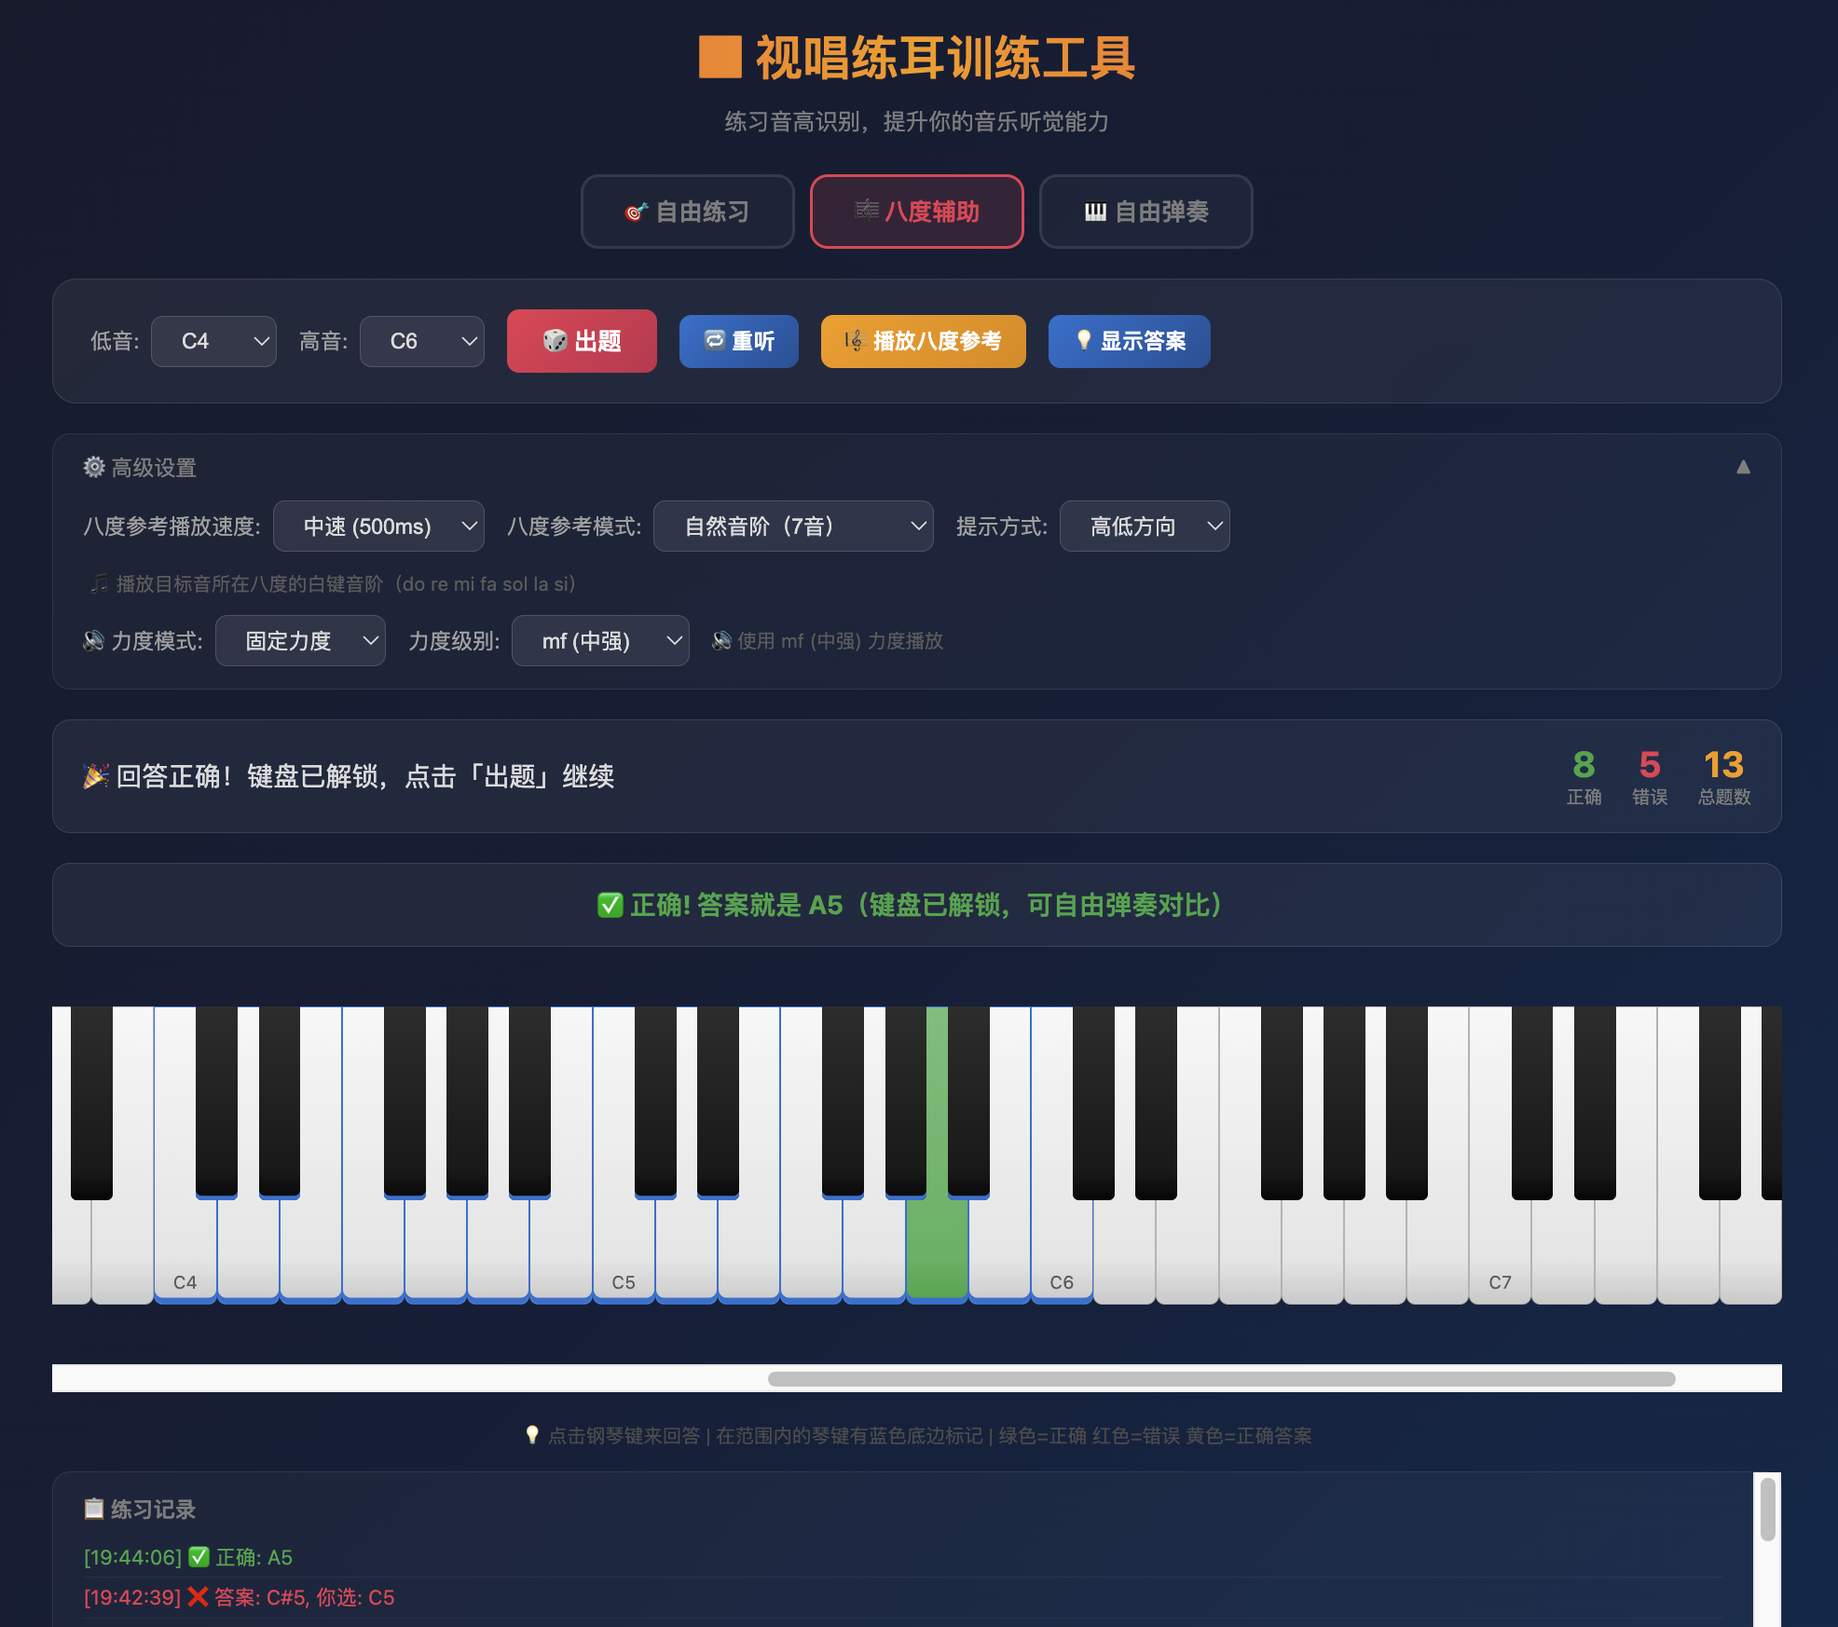
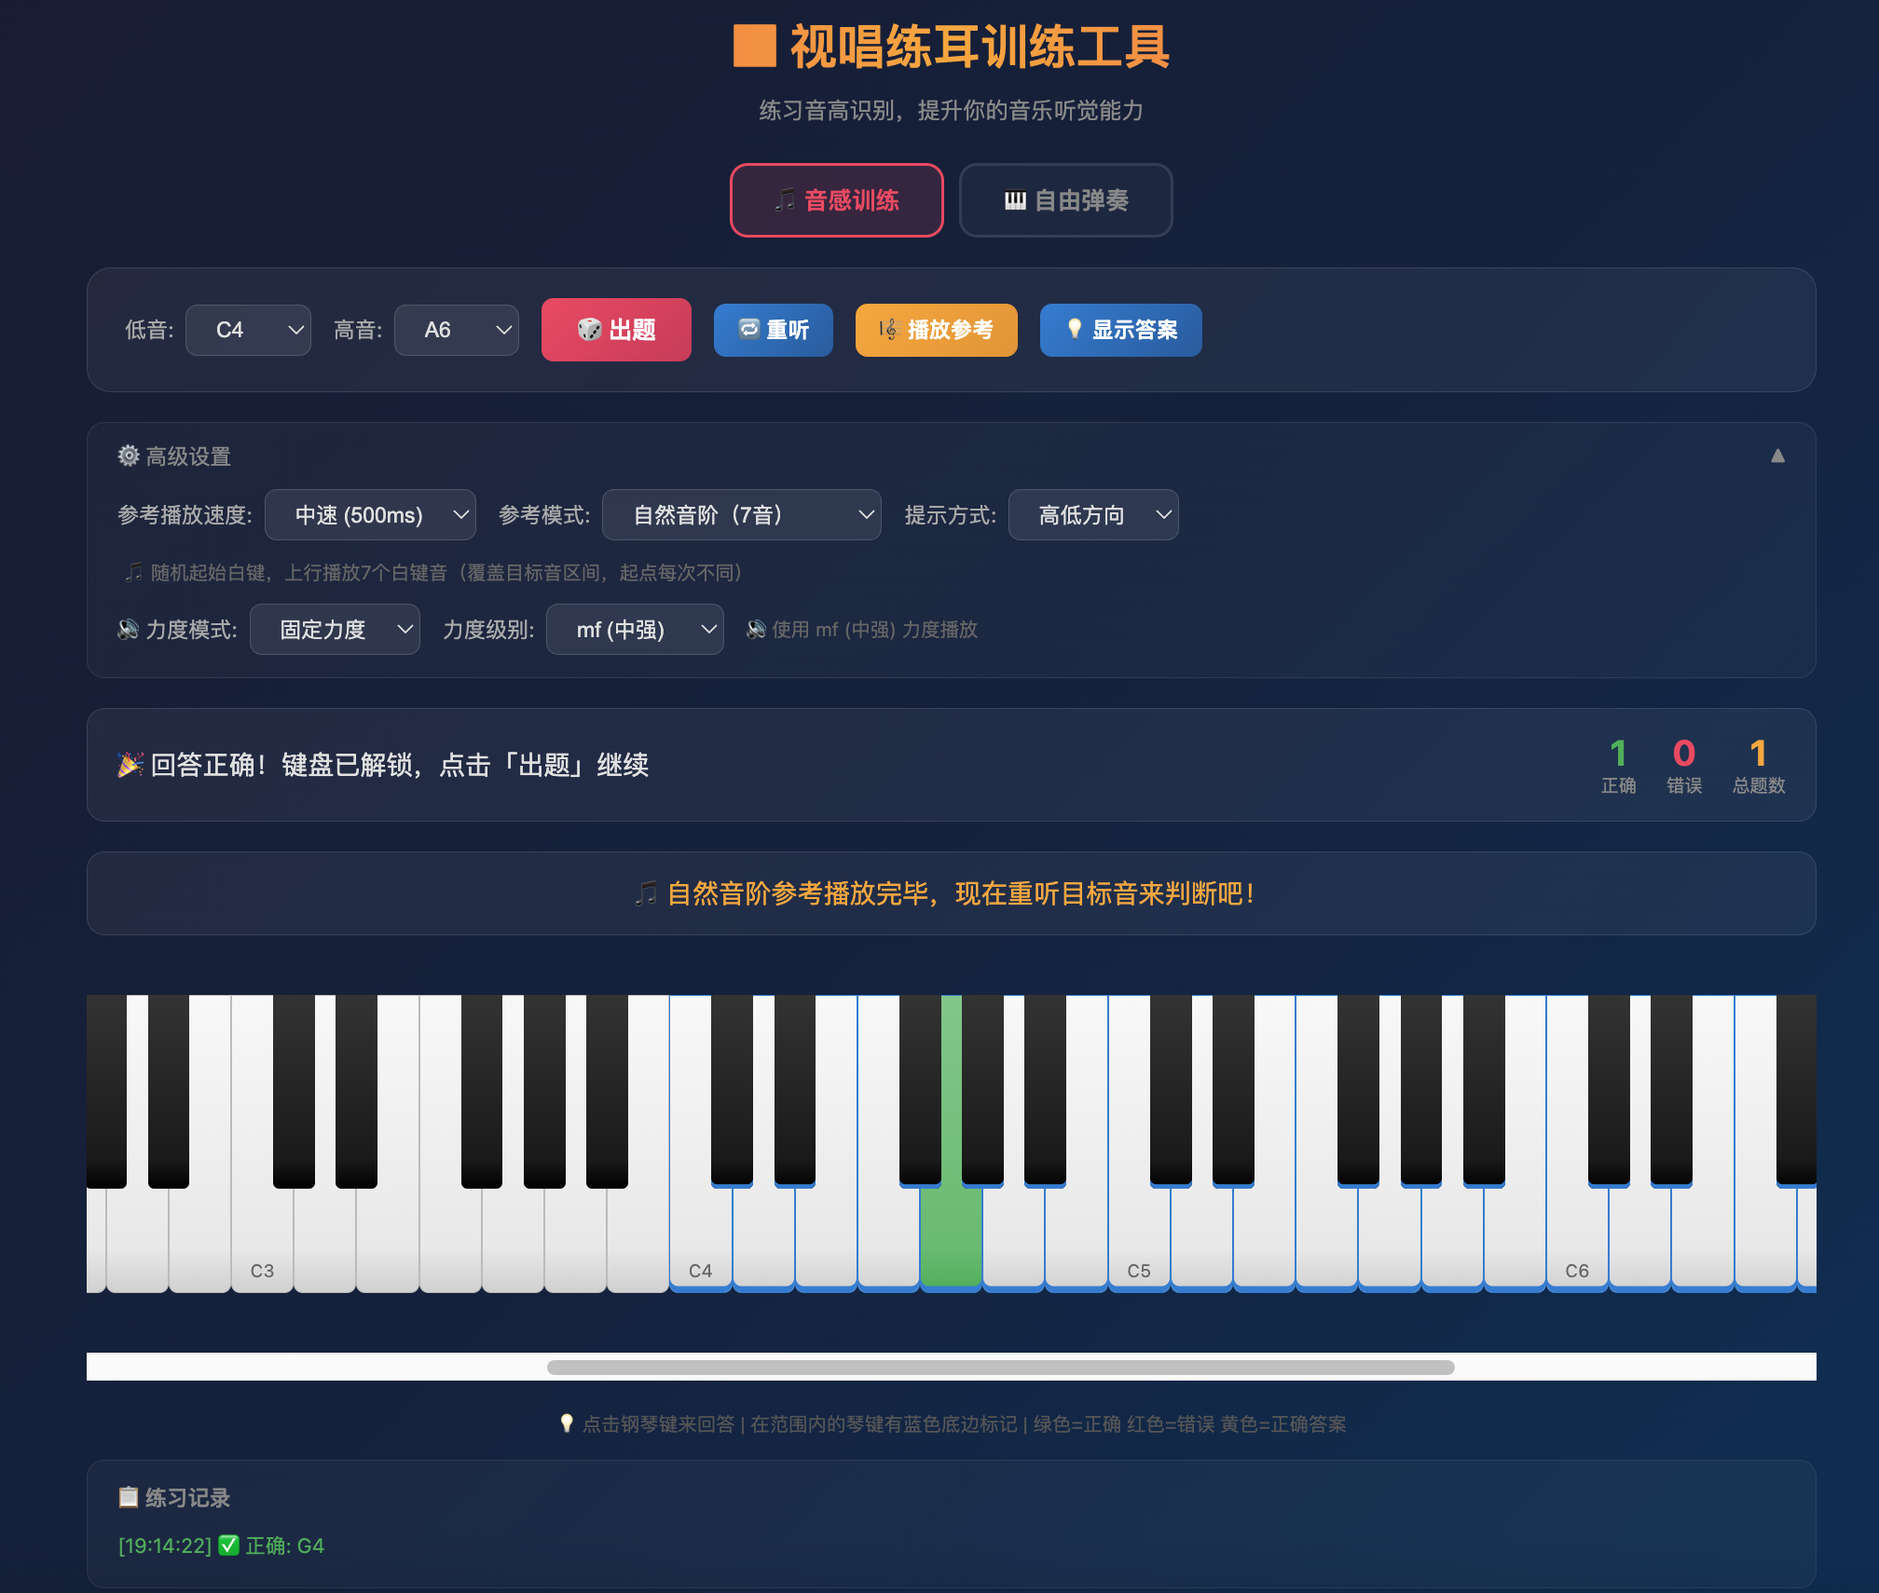
feat: 添加键盘快捷键ASDF绑定及UI优化

diff --git a/templates/index.html b/templates/index.html
@@ -519,11 +519,8 @@
 
         <!-- 模式选择 -->
         <div class="mode-tabs">
-            <div class="mode-tab active" data-mode="free" onclick="switchMode('free')">
-                🎯 自由练习
-            </div>
-            <div class="mode-tab" data-mode="octave" onclick="switchMode('octave')">
-                🎼 八度辅助
+            <div class="mode-tab active" data-mode="training" onclick="switchMode('training')">
+                🎵 音感训练
             </div>
             <div class="mode-tab" data-mode="freeplay" onclick="switchMode('freeplay')">
                 🎹 自由弹奏
@@ -542,16 +539,16 @@
                     <select id="highNote"></select>
                 </div>
                 <button class="primary" id="btnNewQuestion" onclick="newQuestion()">
-                    🎲 出题
+                    🎲 出题 (A)
                 </button>
                 <button class="secondary" id="btnReplay" onclick="replayCurrentNote()" disabled>
-                    🔁 重听
+                    🔁 重听 (S)
                 </button>
                 <button class="accent" id="btnPlayOctave" onclick="playOctaveHint()" style="display:none;">
-                    🎼 播放八度参考
+                    🎼 播放参考 (D)
                 </button>
                 <button class="secondary" id="btnShowAnswer" onclick="showAnswer()" disabled>
-                    💡 显示答案
+                    💡 显示答案 (F)
                 </button>
             </div>
         </div>
@@ -566,7 +563,7 @@
                 <div class="accordion-content">
                     <div class="controls-row">
                         <div class="control-group">
-                            <label>八度参考播放速度:</label>
+                            <label>参考播放速度:</label>
                             <select id="octaveSpeed">
                                 <option value="300">快速 (300ms)</option>
                                 <option value="500" selected>中速 (500ms)</option>
@@ -574,8 +571,9 @@
                             </select>
                         </div>
                         <div class="control-group">
-                            <label>八度参考模式:</label>
+                            <label>参考模式:</label>
                             <select id="octaveRefMode">
+                                <option value="none">无参考（纯听音）</option>
                                 <option value="chromatic">完整半音阶（12音）</option>
                                 <option value="diatonic" selected>自然音阶（7音）</option>
                                 <option value="context">上下文窗口</option>
@@ -672,7 +670,7 @@
 
         <!-- 提示区域 -->
         <div class="hint-area" id="hintArea">
-            <span class="hint-info">选择音域范围，开始练耳之旅 🎵</span>
+        <span class="hint-info">选择音域范围和参考模式，开始音感训练之旅 🎵</span>
         </div>
 
         <!-- 钢琴键盘 -->
@@ -758,6 +756,8 @@ const AVAILABLE_SAMPLES = [
 // 后端传入的配置：音频格式和可用力度层
 const AUDIO_FORMAT = '{{ audio_format }}';
 const VELOCITY_LAYERS = {{ velocity_layers | tojson }};
+const DEFAULT_LOW_NOTE = '{{ default_low_note }}';
+const DEFAULT_HIGH_NOTE = '{{ default_high_note }}';
 
 // 力度层的中文描述
 const VELOCITY_LABELS = {
@@ -776,7 +776,7 @@ let audioCtx = null;
 const sampleBuffers = {};
 
 // 游戏状态
-let currentMode = 'free';   // 'free' | 'octave' | 'freeplay'
+let currentMode = 'training';   // 'training' | 'freeplay'
 let currentAnswer = null;   // 当前正确答案的音符对象
 let isAnswered = false;     // 当前题目是否已作答
 let lowNoteIndex = 0;       // 低音范围索引
@@ -789,6 +789,8 @@ let freeplayOctave = 4;  // 自由弹奏当前八度
 let activeKeySources = {};  // 自由弹奏时同时按下的键 -> {source, gain}
 let lastWrongIndex = null;  // 最近一次选错的按键索引，用于允许重复弹奏
 let currentVelocityLayer = 'mp'; // 当前使用的力度层
+let cachedOctaveRefNotes = null;  // 缓存的八度参考音列表，出题时生成，重听时复用
+let cachedIntervalRefNotes = null;  // 缓存的音程参考数据，出题时生成，重听时复用
 
 // ========== 音频引擎 ==========
 
@@ -1082,13 +1084,18 @@ function populateSelects() {
         highSelect.appendChild(opt2);
     }
 
-    // 默认范围: C3 - C5 (适合初学者)
-    const c3Idx = ALL_NOTES.findIndex(n => n.name === 'C3');
-    const c5Idx = ALL_NOTES.findIndex(n => n.name === 'C5');
-    lowSelect.value = c3Idx;
-    highSelect.value = c5Idx;
-    lowNoteIndex = c3Idx;
-    highNoteIndex = c5Idx;
+    // 默认范围: 由后端配置传入
+    const defaultLowIdx = ALL_NOTES.findIndex(n => n.name === DEFAULT_LOW_NOTE);
+    const defaultHighIdx = ALL_NOTES.findIndex(n => n.name === DEFAULT_HIGH_NOTE);
+    // 如果配置的音名无效则回退到 C3 - C5
+    const fallbackLowIdx = ALL_NOTES.findIndex(n => n.name === 'C4');
+    const fallbackHighIdx = ALL_NOTES.findIndex(n => n.name === 'A6');
+    const lowIdx = defaultLowIdx >= 0 ? defaultLowIdx : fallbackLowIdx;
+    const highIdx = defaultHighIdx >= 0 ? defaultHighIdx : fallbackHighIdx;
+    lowSelect.value = lowIdx;
+    highSelect.value = highIdx;
+    lowNoteIndex = lowIdx;
+    highNoteIndex = highIdx;
 
     lowSelect.addEventListener('change', () => {
         lowNoteIndex = parseInt(lowSelect.value);
@@ -1121,8 +1128,8 @@ function switchMode(mode) {
         t.classList.toggle('active', t.dataset.mode === mode);
     });
 
-    const btnOctave = document.getElementById('btnPlayOctave');
-    btnOctave.style.display = mode === 'octave' ? 'inline-block' : 'none';
+    // 音感训练模式下，根据参考模式决定是否显示播放参考按钮
+    updateRefButtonVisibility();
 
     // 自由弹奏模式的显示/隐藏
     const isFreeplay = mode === 'freeplay';
@@ -1153,10 +1160,22 @@ function switchMode(mode) {
     resetQuestion();
 }
 
+/**
+ * 根据当前参考模式更新「播放参考」按钮的可见性
+ */
+function updateRefButtonVisibility() {
+    const btnOctave = document.getElementById('btnPlayOctave');
+    const refMode = document.getElementById('octaveRefMode').value;
+    // 音感训练模式下，非「无参考」时显示按钮
+    btnOctave.style.display = (currentMode === 'training' && refMode !== 'none') ? 'inline-block' : 'none';
+}
+
 function resetQuestion() {
     currentAnswer = null;
     isAnswered = false;
     lastWrongIndex = null;
+    cachedOctaveRefNotes = null;
+    cachedIntervalRefNotes = null;
     clearKeyHighlights();
     document.getElementById('btnReplay').disabled = true;
     document.getElementById('btnShowAnswer').disabled = true;
@@ -1181,6 +1200,8 @@ function newQuestion() {
     clearKeyHighlights();
     isAnswered = false;
     lastWrongIndex = null;
+    cachedOctaveRefNotes = null;
+    cachedIntervalRefNotes = null;
 
     // 随机选一个音
     const range = highNoteIndex - lowNoteIndex + 1;
@@ -1190,20 +1211,20 @@ function newQuestion() {
     document.getElementById('btnReplay').disabled = false;
     document.getElementById('btnShowAnswer').disabled = false;
 
-    if (currentMode === 'octave') {
-        // 八度辅助模式: 先找到答案所在的八度起点（C音开始）
-        document.getElementById('statusText').textContent = '八度辅助模式 - 先听参考音阶，再听目标音';
-        document.getElementById('hintArea').innerHTML =
-            '<span class="hint-info">🎼 先点击「播放八度参考」听一遍音阶，然后听目标音来判断</span>';
-        // 直接播放目标音
-        playNote(currentAnswer.midi);
-        flashKey(randomIdx);
-    } else {
-        // 自由模式
-        document.getElementById('statusText').textContent = '自由练习模式 - 听音辨音';
+    const refMode = document.getElementById('octaveRefMode').value;
+    if (refMode === 'none') {
+        // 无参考模式：纯听音辨音
+        document.getElementById('statusText').textContent = '音感训练 - 纯听音辨音';
         document.getElementById('hintArea').innerHTML =
             '<span class="hint-info">🎵 已播放一个音，请在键盘上点击你认为的答案</span>';
         playNote(currentAnswer.midi);
+    } else {
+        // 有参考模式：先播放目标音，可借助参考来判断
+        document.getElementById('statusText').textContent = '音感训练 - 先听目标音，可借助参考辅助';
+        document.getElementById('hintArea').innerHTML =
+            '<span class="hint-info">🎼 已播放目标音，可点击「播放参考」辅助判断</span>';
+        playNote(currentAnswer.midi);
+        flashKey(randomIdx);
     }
 }
 
@@ -1211,7 +1232,7 @@ function replayCurrentNote() {
     if (!currentAnswer) return;
     playNote(currentAnswer.midi);
     // 不在自由模式下闪烁
-    if (currentMode === 'octave' && !isAnswered) {
+    if (currentMode === 'training' && !isAnswered) {
         // 不做键盘提示
     }
 }
@@ -1407,13 +1428,20 @@ async function playOctaveHint() {
 
     if (mode === 'interval') {
         // ====== 音程参考模式：特殊播放逻辑 ======
-        const intervalData = getIntervalRefNotes();
+        // 使用缓存的音程参考数据，避免重听时重新随机
+        if (!cachedIntervalRefNotes) {
+            cachedIntervalRefNotes = getIntervalRefNotes();
+        }
+        const intervalData = cachedIntervalRefNotes;
         if (!intervalData || intervalData.notes.length === 0) {
             document.getElementById('hintArea').innerHTML =
                 '<span class="hint-wrong">⚠ 无法生成音程参考，请检查设置</span>';
             document.getElementById('btnPlayOctave').disabled = false;
             return;
         }
+
+        // 自动滚动钢琴键盘到参考音区间
+        scrollPianoToRange(intervalData.notes.map(n => n.index));
 
         const dirLabel = { up: '上行', down: '下行', both: '先上后下' };
         document.getElementById('hintArea').innerHTML =
@@ -1443,7 +1471,11 @@ async function playOctaveHint() {
     }
 
     // ====== 其他模式：通用播放逻辑 ======
-    const refNotes = getOctaveRefNotes();
+    // 使用缓存的参考音列表，避免重听时重新随机起始位置
+    if (!cachedOctaveRefNotes) {
+        cachedOctaveRefNotes = getOctaveRefNotes();
+    }
+    const refNotes = cachedOctaveRefNotes;
 
     if (!Array.isArray(refNotes) || refNotes.length === 0) {
         document.getElementById('hintArea').innerHTML =
@@ -1451,6 +1483,9 @@ async function playOctaveHint() {
         document.getElementById('btnPlayOctave').disabled = false;
         return;
     }
+
+    // 自动滚动钢琴键盘到参考音区间
+    scrollPianoToRange(refNotes);
 
     document.getElementById('hintArea').innerHTML =
         `<span class="hint-info">🎼 正在播放${modeNames[mode]}参考（${refNotes.length}个音）...</span>`;
@@ -1482,6 +1517,30 @@ async function playOctaveHint() {
 function flashKey(index) {
     // 短暂闪烁效果（仅在八度模式下使用）
     // 这里不闪烁，因为不应该提示答案
+}
+
+/**
+ * 将钢琴键盘平滑滚动到指定音符索引范围的中心位置
+ * @param {number[]} noteIndices - ALL_NOTES 索引数组
+ */
+function scrollPianoToRange(noteIndices) {
+    if (!noteIndices || noteIndices.length === 0) return;
+    const wrapper = document.querySelector('.piano-wrapper');
+    if (!wrapper) return;
+
+    // 找到范围内最左和最右的琴键元素
+    const firstEl = document.querySelector(`[data-index="${noteIndices[0]}"]`);
+    const lastEl = document.querySelector(`[data-index="${noteIndices[noteIndices.length - 1]}"]`);
+    if (!firstEl || !lastEl) return;
+
+    // 计算范围的中心位置（相对于钢琴容器）
+    const firstLeft = firstEl.offsetLeft;
+    const lastRight = lastEl.offsetLeft + lastEl.offsetWidth;
+    const rangeCenter = (firstLeft + lastRight) / 2;
+
+    // 滚动使范围中心处于可视区域中央
+    const targetScroll = rangeCenter - wrapper.clientWidth / 2;
+    wrapper.scrollTo({ left: targetScroll, behavior: 'smooth' });
 }
 
 function onKeyClick(noteIndex) {
@@ -1738,6 +1797,7 @@ function setupOctaveRefModeListener() {
     const intervalDirectionGroup = document.getElementById('intervalDirectionGroup');
 
     const descriptions = {
+        none: '🎯 不播放任何参考音，纯粹依靠听觉辨别音高（最高难度）',
         chromatic: '🎵 随机起始音，上行播放12个半音（覆盖目标音区间，起点每次不同）',
         diatonic: '🎵 随机起始白键，上行播放7个白键音（覆盖目标音区间，起点每次不同）',
         context: '🎵 播放目标音附近指定范围内的半音序列，目标音在窗口内位置随机',
@@ -1752,6 +1812,8 @@ function setupOctaveRefModeListener() {
         intervalTypeGroup.style.display = mode === 'interval' ? 'flex' : 'none';
         intervalDirectionGroup.style.display = mode === 'interval' ? 'flex' : 'none';
         descEl.textContent = descriptions[mode] || '';
+        // 联动更新播放参考按钮的可见性
+        updateRefButtonVisibility();
     }
 
     modeSelect.addEventListener('change', update);
@@ -1847,16 +1909,30 @@ document.addEventListener('keydown', (e) => {
         }
     }
 
-    if (e.code === 'Space') {
+    // A - 出题
+    if (e.code === 'KeyA') {
+        e.preventDefault();
+        newQuestion();
+    }
+    // S - 重听
+    if (e.code === 'KeyS') {
         e.preventDefault();
         if (currentAnswer && !isAnswered) {
             replayCurrentNote();
-        } else {
-            newQuestion();
         }
     }
-    if (e.code === 'KeyO' && currentMode === 'octave') {
-        playOctaveHint();
+    // D - 播放参考
+    if (e.code === 'KeyD' && currentMode === 'training') {
+        e.preventDefault();
+        const refMode = document.getElementById('octaveRefMode').value;
+        if (refMode !== 'none') playOctaveHint();
+    }
+    // F - 显示答案
+    if (e.code === 'KeyF') {
+        e.preventDefault();
+        if (currentAnswer && !isAnswered) {
+            showAnswer();
+        }
     }
 });
 

diff --git a/app.py b/app.py
@@ -14,6 +14,8 @@ app = Flask(__name__, static_folder='static')
 app_config = {
     'audio_format': 'mp3',
     'velocity_layers': ['pp', 'p', 'mp', 'mf', 'f', 'ff'],
+    'default_low_note': 'C4',
+    'default_high_note': 'A6',
 }
 
 
@@ -21,7 +23,9 @@ app_config = {
 def index():
     return render_template('index.html',
                            audio_format=app_config['audio_format'],
-                           velocity_layers=app_config['velocity_layers'])
+                           velocity_layers=app_config['velocity_layers'],
+                           default_low_note=app_config['default_low_note'],
+                           default_high_note=app_config['default_high_note'])
 
 
 @app.route('/samples/<path:filename>')
@@ -40,10 +44,16 @@ if __name__ == '__main__':
                         help='音频采样格式 (默认 mp3)')
     parser.add_argument('--velocity-layers', nargs='+', default=['pp', 'p', 'mp', 'mf', 'f', 'ff'],
                         help='可用的力度层列表')
+    parser.add_argument('--default-low-note', default='C4',
+                        help='默认低音范围 (默认 C4)')
+    parser.add_argument('--default-high-note', default='A6',
+                        help='默认高音范围 (默认 A6)')
     args = parser.parse_args()
 
     app_config['audio_format'] = args.audio_format
     app_config['velocity_layers'] = args.velocity_layers
+    app_config['default_low_note'] = args.default_low_note
+    app_config['default_high_note'] = args.default_high_note
 
     print(f"🎹 视唱练耳训练工具启动中...")
     print(f"🌐 访问地址: http://{args.host}:{args.port}")
